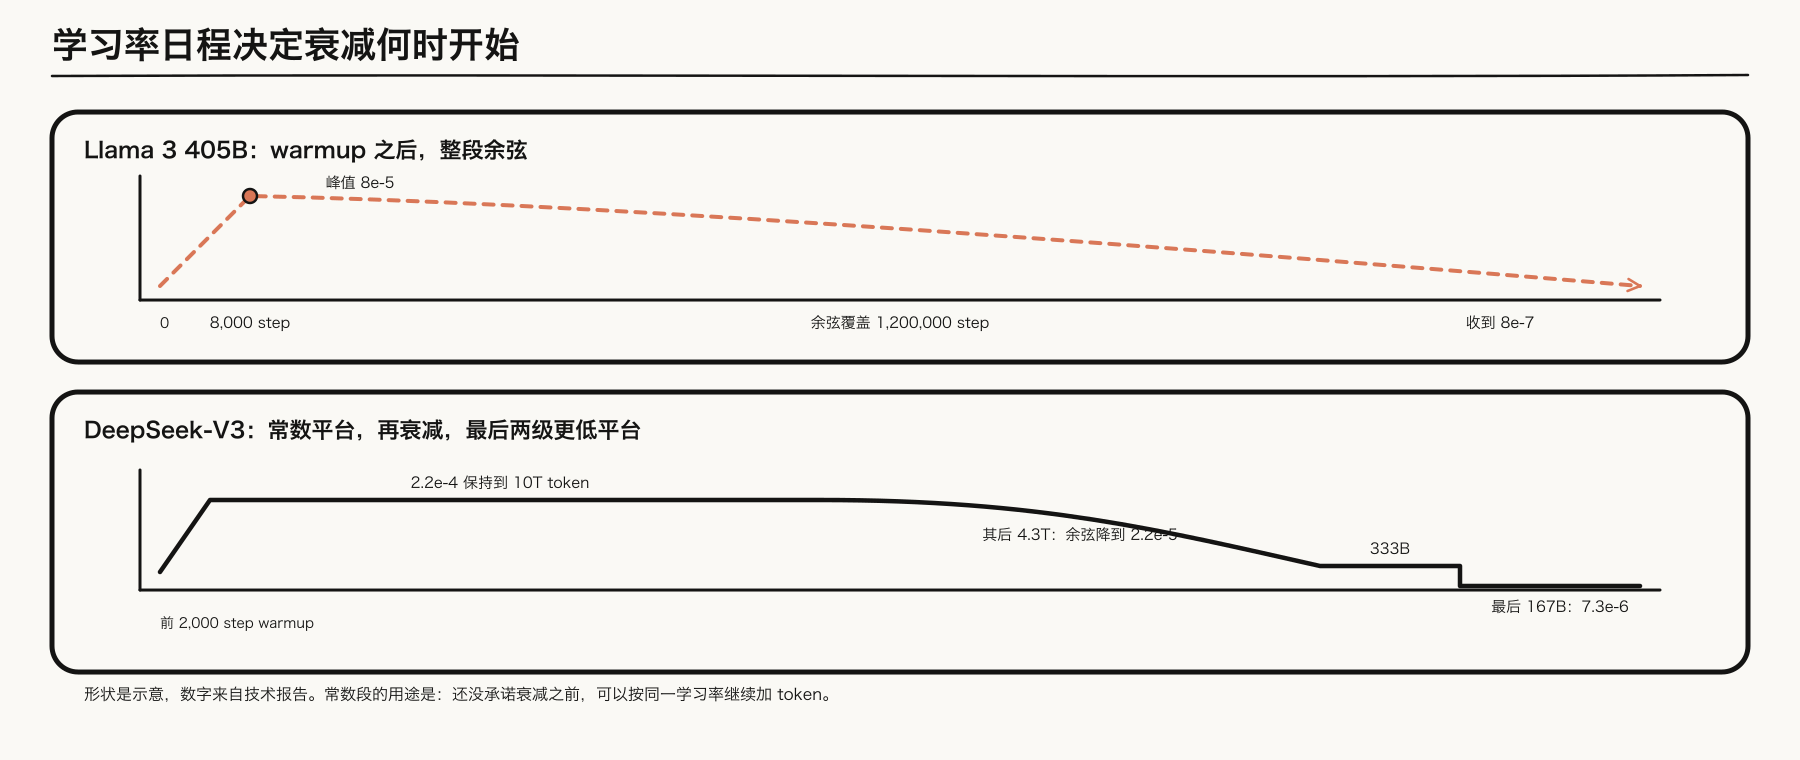
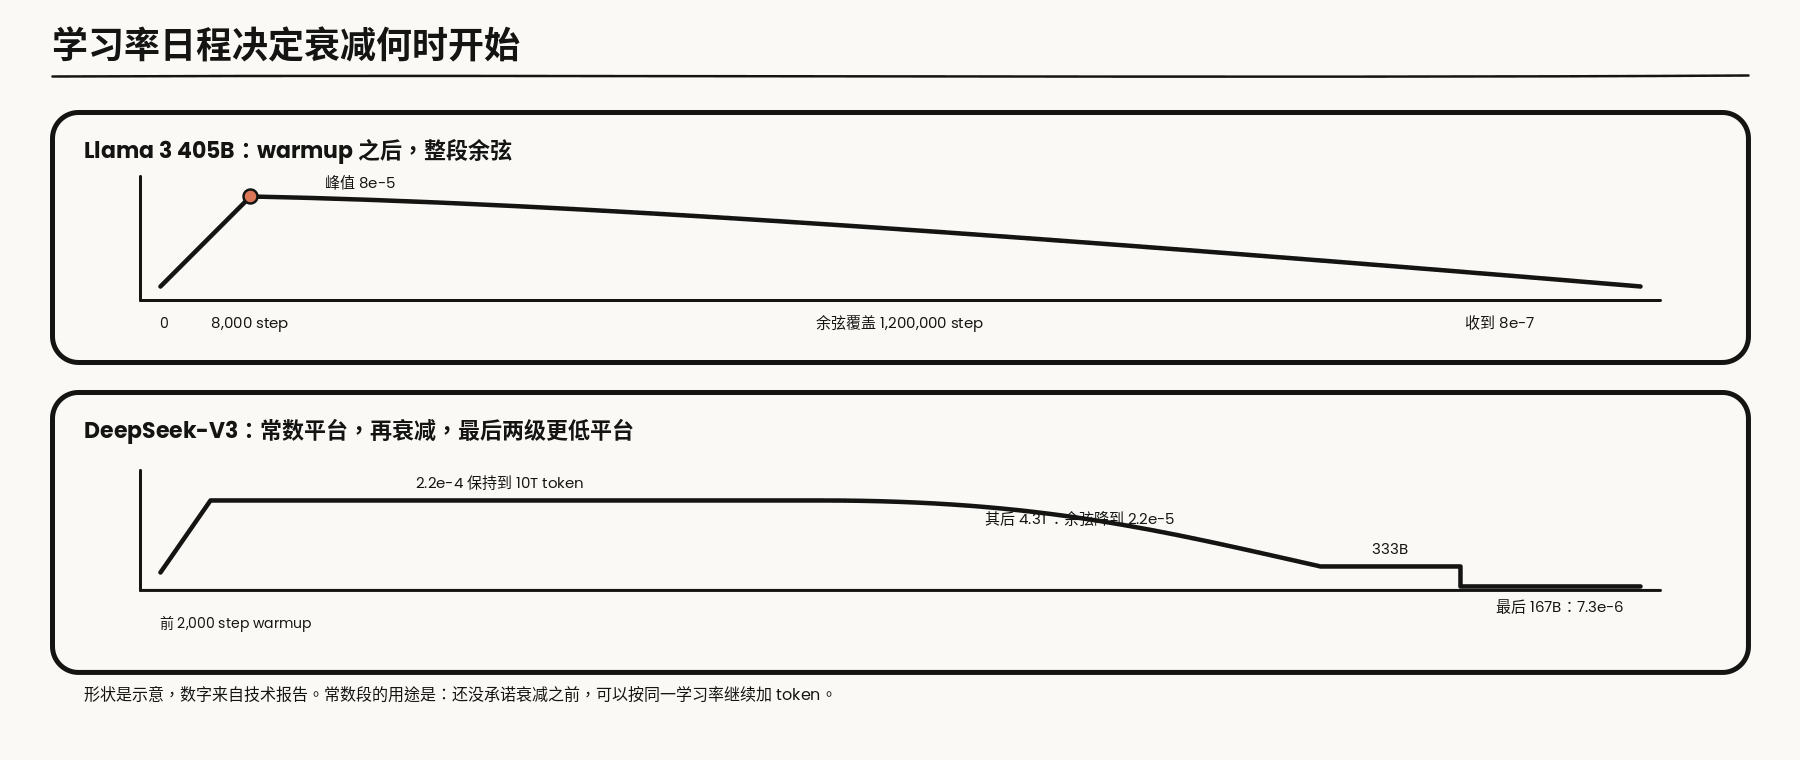
docs(posts): apply review fixes to the pretraining article
- unify inline math to kramdown $$...$$, drop the \sb{} workaround,
  and use plain unicode exponents inside tables
- retire the orange-dashed gradient exception: dashed ink now means
  feedback per the series legend; orange only marks start/end nodes
- fix node colors in figs 1/3/5, give the shared expert a solid border
  and a direct edge bypassing the router; re-render affected PNGs
- expand the CSS font shorthand in the five SVG sources
- drop a stale cross-reference to the draft version of part one and
  write x_{<t} as \lt there

diff --git a/_posts/2026-8-13-LLM-Training-Pipeline-Part1-Overview-and-Data-Engineering.md b/_posts/2026-8-13-LLM-Training-Pipeline-Part1-Overview-and-Data-Engineering.md
@@ -58,7 +58,7 @@ pinned: false
 
 ### 2.1 Pretrain：规模化的下一个 token 预测
 
-自回归预训练在上下文 $$x_{<t}$$ 下预测 $$x_t$$，最小化 token 级负对数似然。Scaling Laws 用小规模实验估计参数量、有效数据量与算力之间的关系；[Chinchilla](https://arxiv.org/abs/2203.15556) 给出 compute-optimal 视角，后来的超量训练与数据受限研究则说明：最优点还取决于推理预算、数据质量和可重复数据量。
+自回归预训练在上下文 $$x_{\lt t}$$ 下预测 $$x_t$$，最小化 token 级负对数似然。Scaling Laws 用小规模实验估计参数量、有效数据量与算力之间的关系；[Chinchilla](https://arxiv.org/abs/2203.15556) 给出 compute-optimal 视角，后来的超量训练与数据受限研究则说明：最优点还取决于推理预算、数据质量和可重复数据量。
 
 架构上常见 Dense（如 [Llama 3](https://arxiv.org/abs/2407.21783)）和 MoE（如 DeepSeek-V3）两条路线；注意力实现包括 MHA、GQA 和 MLA。第二篇会把单个 training step 的 data/gradient flow、LR schedule、BF16/FP8 与 loss spike 诊断放在同一张图里。案例数字也会明确 tokenizer 口径：Llama 3 405B 报告约 15.6T 训练 token；DeepSeek-V3 报告 14.8T token。
 
